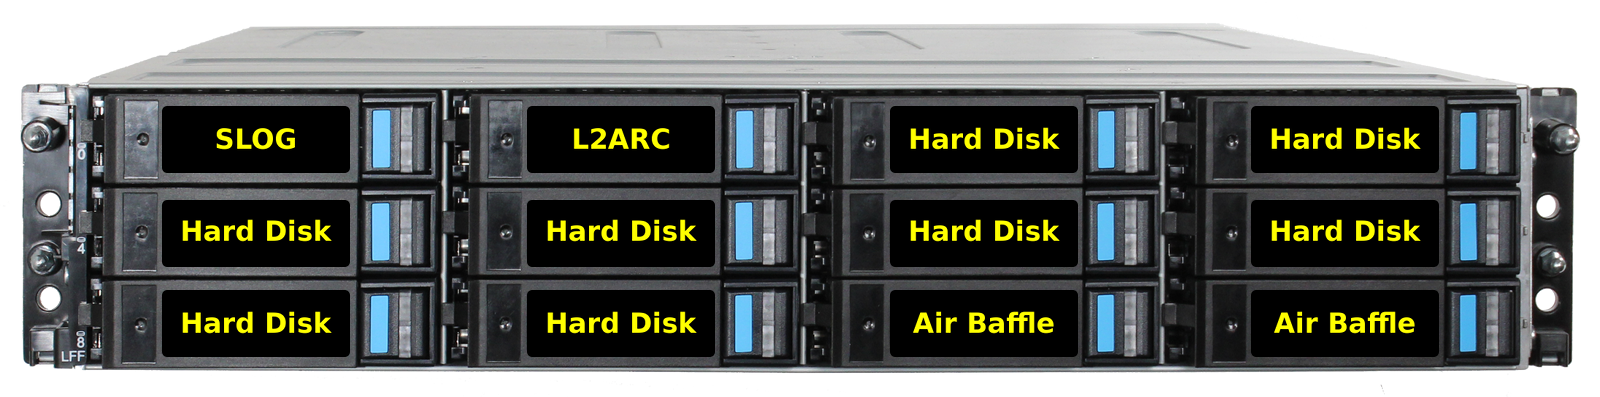
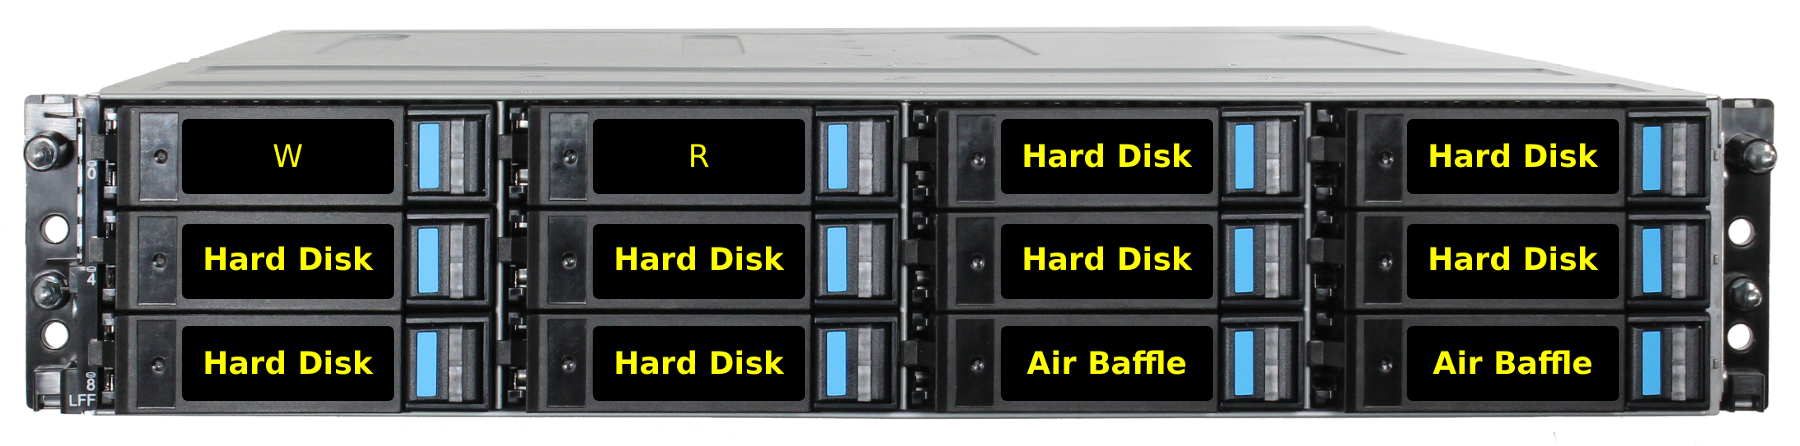
Change SLOG and L2ARC to W and R respectively.

diff --git a/userguide/snippets/x_drivetrays.rst b/userguide/snippets/x_drivetrays.rst
@@ -12,9 +12,9 @@ trays must be placed in the empty bays.
 A standard drive tray installation order simplifies support and is
 strongly recommended:
 
-* SSD drives for SLOG, if present
+* SSD drives for W, if present
 
-* SSD drives for L2ARC, if present
+* SSD drives for R, if present
 
 * Hard drives or SSD drives for data storage
 
@@ -25,7 +25,7 @@ next drive tray to the right of the first. Install remaining drive
 trays to the right across the row. After a row is filled with drives,
 move down to the next row and start again with the left bay.
 
-This example shows the proper order for a SLOG SSD, an L2ARC SSD,
+This example shows the proper order for a W SSD, an R SSD,
 eight hard drives, and two empty air baffle trays.
 
 .. figure:: images/truenas/x_driveorder.png
